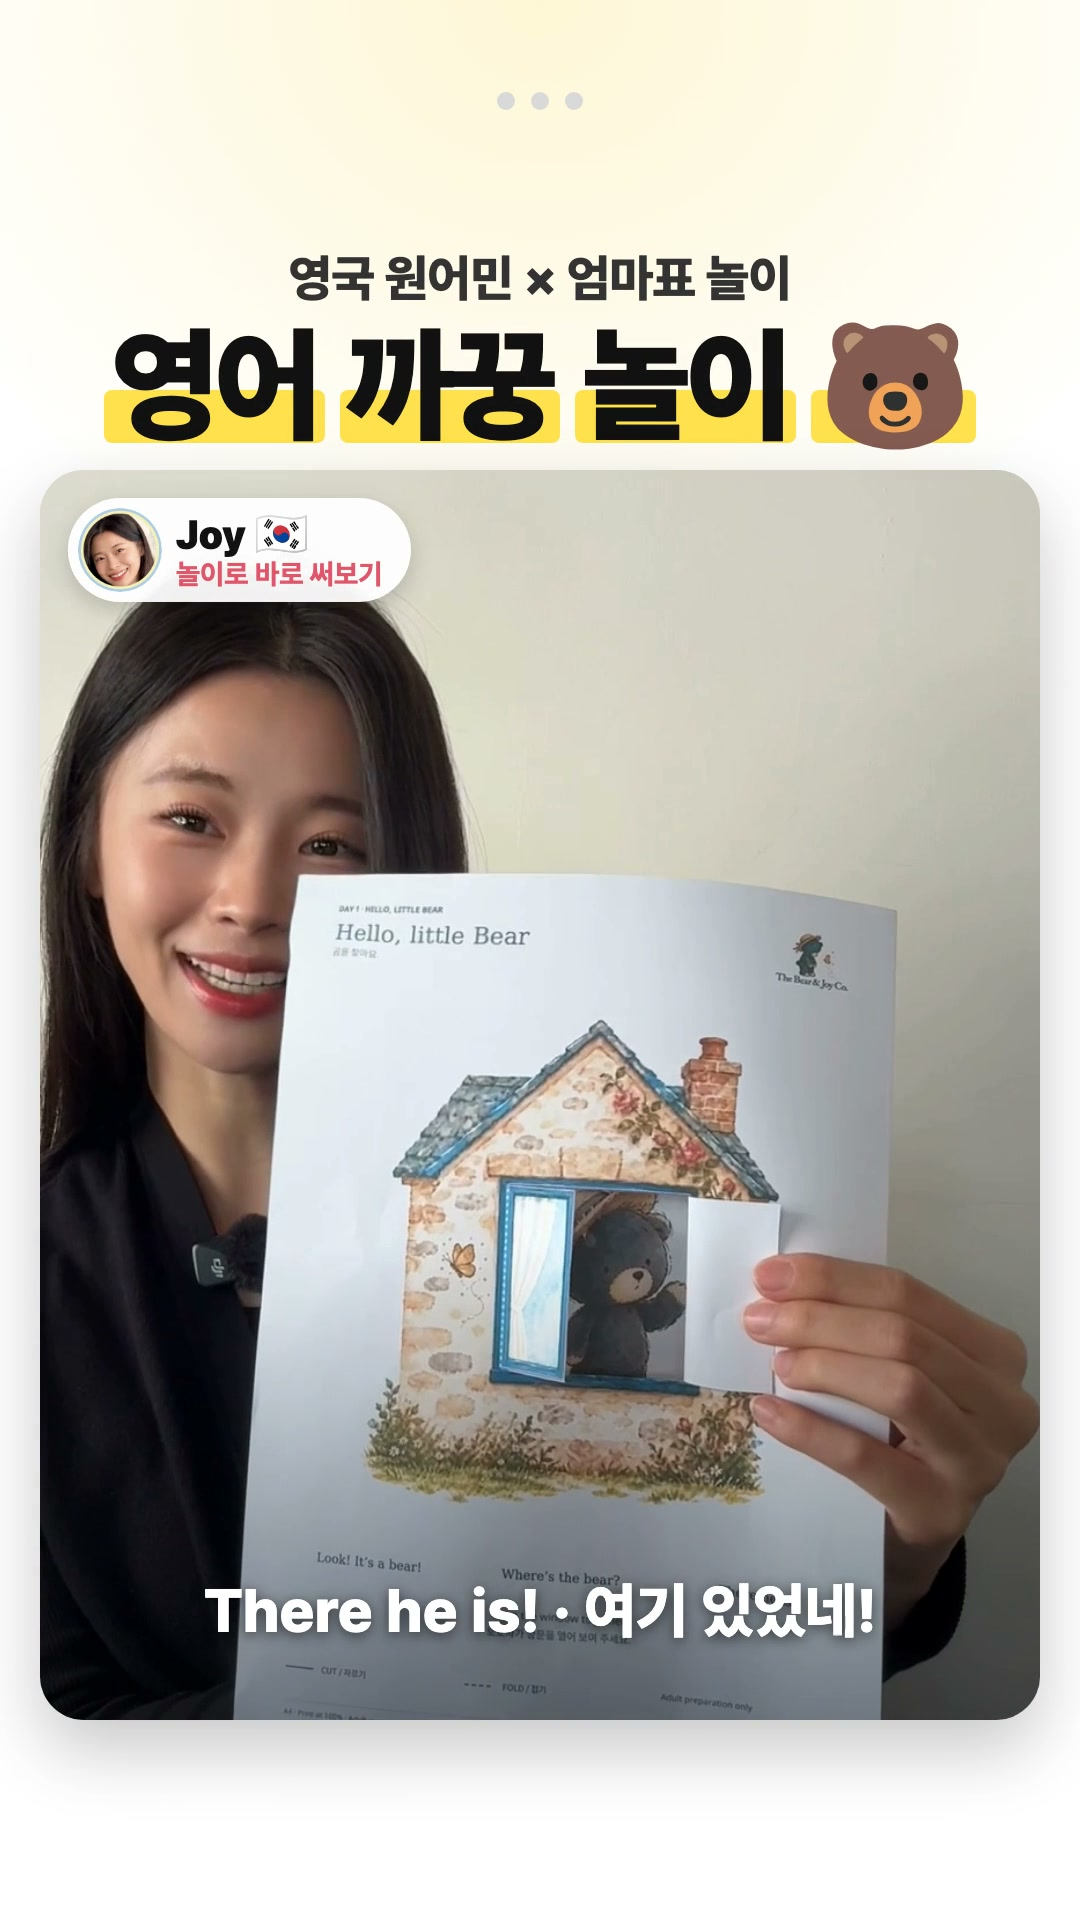
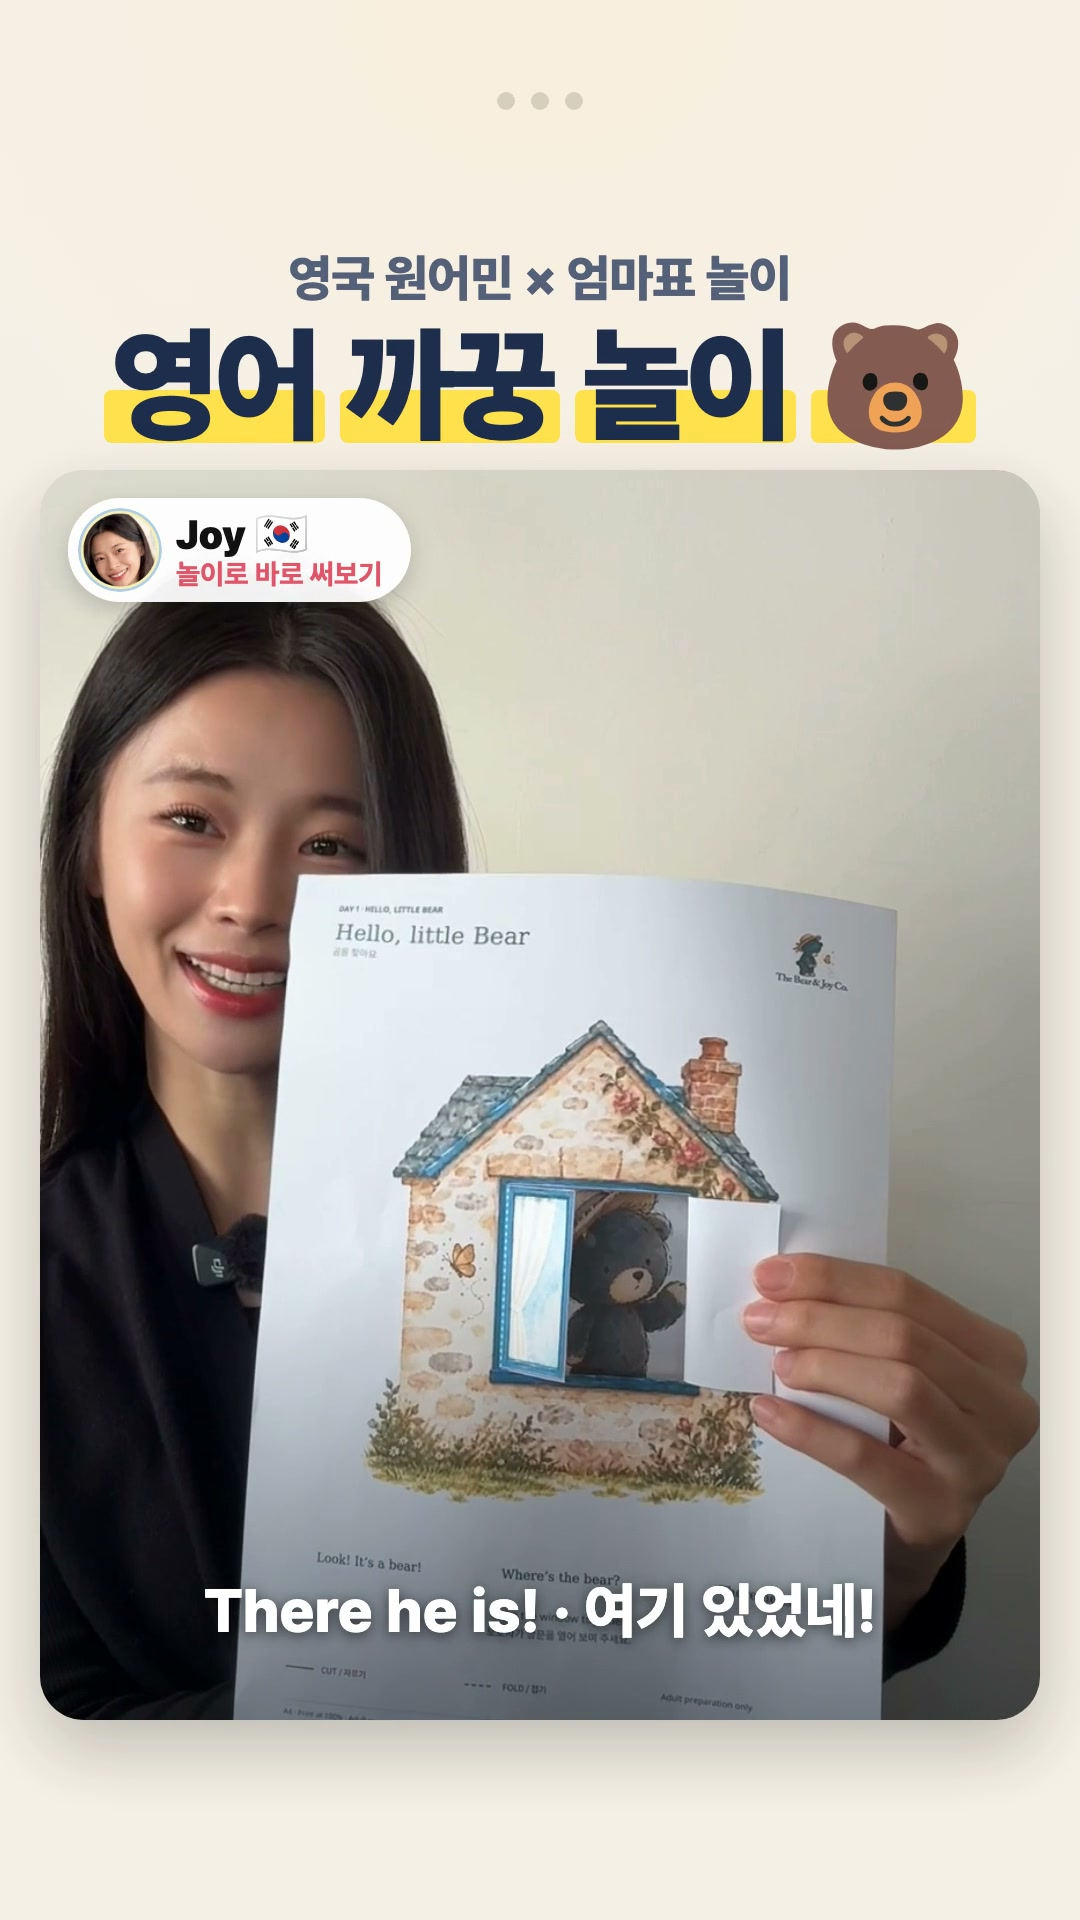
Day 1 ad: cream page instead of white (Mark), Oxford blue theme kept as an option

Changed region(s): [[0.0, 0.1875, 1.0, 1.0], [0.0917, 0.125, 0.7333, 0.25]]

diff --git a/remotion/src/LittleStepsAd.tsx b/remotion/src/LittleStepsAd.tsx
@@ -6,10 +6,15 @@ import {AbsoluteFill, Img, OffthreadVideo, continueRender, delayRender, interpol
 
 type Head = {kicker: string; big: string; ko: string; step?: number; words: number[]};
 type Shot = {who: 'mark' | 'joy'; src_s: number; src_e: number; out_s: number; out_e: number; cx0: number; cx1: number; head: Head; hook: boolean; mirror?: boolean};
-export type AdPlan = {fps: number; duration: number; frames: number; speechEnd: number; shots: Shot[]; caps: {s: number; e: number; ko: string}[]; media: string};
+export type AdPlan = {fps: number; duration: number; frames: number; speechEnd: number; shots: Shot[]; caps: {s: number; e: number; ko: string}[]; media: string; theme?: 'cream' | 'oxford'};
 
 const FF = "'Pretendard', 'Noto Color Emoji', sans-serif";
-const INK = '#111111', MARK = '#FFE14D', BLUE = '#2F6BFF', PAGE = '#FFFFFF';
+// Page themes. Mark (11 Nov 2026): not white, use our cream. Joy also asked to see Oxford blue.
+const THEMES = {
+  cream: {page: '#F5F0E6', glow: '#FAEEDF', ink: '#1E2D4D', sub: '#55607A', step: '#3A6EA5', mark: '#FFE14D', chip: '#EAE1D0', dot: '#D8CFBE', btn: '#1E2D4D', btnOn: '#2C3E66', btnText: '#FFFFFF', logo: 'full'},
+  oxford: {page: '#002147', glow: '#0B3166', ink: '#F5F0E6', sub: '#C3CEE0', step: '#AECCE6', mark: '#C9A84C', chip: 'rgba(255,255,255,.12)', dot: '#2A4470', btn: '#F5F0E6', btnOn: '#FFFFFF', btnText: '#002147', logo: 'cream'},
+};
+let T = THEMES.cream;
 const clamp = {extrapolateLeft: 'clamp' as const, extrapolateRight: 'clamp' as const};
 const CARD = {x: 40, y: 470, w: 1000, h: 1250};
 const K = CARD.h / 1080; // source px -> card px
@@ -38,22 +43,22 @@ const Header: React.FC<{sh: Shot; t: number; fps: number; first: boolean}> = ({s
   return (
     <div style={{position: 'absolute', left: 50, right: 50, top: 150, height: 300, display: 'flex', flexDirection: 'column', justifyContent: 'flex-end', alignItems: 'center',
       fontFamily: FF, textAlign: 'center', transform: `translateY(${(1 - k) * 40}px) scale(${0.9 + 0.1 * k})`, opacity: Math.min(1, k * 2)}}>
-      {h.kicker ? <div style={{fontWeight: 800, fontSize: h.step ? 40 : 50, letterSpacing: h.step ? '.12em' : '-.01em', color: h.step ? BLUE : '#333', marginBottom: 12}}>
-        {h.step ? <>PHRASE <span style={{color: INK}}>{h.step}</span> / 3</> : h.kicker}</div> : null}
-      <div style={{fontWeight: 900, fontSize: size, lineHeight: 1.05, letterSpacing: '-.035em', color: INK, whiteSpace: 'nowrap'}}>
+      {h.kicker ? <div style={{fontWeight: 800, fontSize: h.step ? 40 : 50, letterSpacing: h.step ? '.12em' : '-.01em', color: h.step ? T.step : T.sub, marginBottom: 12}}>
+        {h.step ? <>PHRASE <span style={{color: T.ink}}>{h.step}</span> / 3</> : h.kicker}</div> : null}
+      <div style={{fontWeight: 900, fontSize: size, lineHeight: 1.05, letterSpacing: '-.035em', color: T.ink, whiteSpace: 'nowrap'}}>
         {words.map((w, i) => {
           const at = h.words[i];
           const lit = at === undefined ? (h.words.length ? 0 : 1) : interpolate(t, [at - .02, at + .12], [0, 1], clamp);
           return (
             <span key={i} style={{position: 'relative', display: 'inline-block', marginRight: i < words.length - 1 ? '.24em' : 0}}>
-              <span style={{position: 'absolute', left: '-.06em', right: '-.06em', bottom: '.06em', height: '.42em', background: MARK, borderRadius: 8,
+              <span style={{position: 'absolute', left: '-.06em', right: '-.06em', bottom: '.06em', height: '.42em', background: T.mark, borderRadius: 8,
                 transform: `scaleX(${lit})`, transformOrigin: 'left', zIndex: 0}} />
               <span style={{position: 'relative', zIndex: 1}}>{w}</span>
             </span>
           );
         })}
       </div>
-      {h.ko ? <div style={{fontWeight: 700, fontSize: 50, color: '#555', marginTop: 14}}>{h.ko}</div> : null}
+      {h.ko ? <div style={{fontWeight: 700, fontSize: 50, color: T.sub, marginTop: 14}}>{h.ko}</div> : null}
     </div>
   );
 };
@@ -66,8 +71,8 @@ const Badge: React.FC<{who: 'mark' | 'joy'; t: number; s: number; fps: number}> 
       borderRadius: 999, padding: '10px 28px 10px 10px', boxShadow: '0 8px 24px rgba(0,0,0,.18)', fontFamily: FF, transform: `translateX(${(1 - k) * -60}px)`, opacity: k}}>
       <Img src={staticFile(mark ? 'brand/mark-avatar.png' : 'brand/joy-avatar.png')} style={{width: 84, height: 84, borderRadius: '50%'}} />
       <div style={{lineHeight: 1.1}}>
-        <div style={{fontWeight: 900, fontSize: 40, color: INK}}>{mark ? 'Mark T' : 'Joy'} <span style={{fontSize: 44}}>{mark ? '🇬🇧' : '🇰🇷'}</span></div>
-        <div style={{fontWeight: 700, fontSize: 28, color: mark ? BLUE : '#E2556B'}}>{mark ? '영국 원어민 발음' : '놀이로 바로 써보기'}</div>
+        <div style={{fontWeight: 900, fontSize: 40, color: '#111'}}>{mark ? 'Mark T' : 'Joy'} <span style={{fontSize: 44}}>{mark ? '🇬🇧' : '🇰🇷'}</span></div>
+        <div style={{fontWeight: 700, fontSize: 28, color: mark ? '#2F6BFF' : '#E2556B'}}>{mark ? '영국 원어민 발음' : '놀이로 바로 써보기'}</div>
       </div>
     </div>
   );
@@ -78,23 +83,25 @@ const EndCard: React.FC<{t: number; s: number; fps: number}> = ({t, s, fps}) => 
   const tap = interpolate(t, [s + 1.45, s + 1.6, s + 1.75], [1, .9, 1], clamp);
   const on = t > s + 1.6;
   return (
-    <AbsoluteFill style={{background: PAGE, opacity: interpolate(t, [s, s + .2], [0, 1], clamp), alignItems: 'center', fontFamily: FF}}>
-      <Img src={staticFile('brand/logo-full.png')} style={{width: 420, marginTop: 250, transform: `scale(${k(0)})`}} />
-      <div style={{fontFamily: "'Playfair Display', serif", fontStyle: 'italic', fontWeight: 600, fontSize: 64, color: INK, marginTop: 40, opacity: k(.15)}}>Little Steps to Big Adventures</div>
-      <div style={{fontWeight: 900, fontSize: 92, color: INK, marginTop: 50, letterSpacing: '-.03em', textAlign: 'center', lineHeight: 1.15, transform: `scale(${.85 + .15 * k(.3)})`, opacity: k(.3)}}>
-        하루 <span style={{background: `linear-gradient(transparent 58%, ${MARK} 58%)`}}>영어 3문장</span>,<br />놀면서 익혀요
+    <AbsoluteFill style={{background: T.page, opacity: interpolate(t, [s, s + .2], [0, 1], clamp), alignItems: 'center', fontFamily: FF}}>
+      {T.logo === 'full' ? <Img src={staticFile('brand/logo-full.png')} style={{width: 420, marginTop: 250, transform: `scale(${k(0)})`}} />
+        : <div style={{marginTop: 250, display: 'flex', flexDirection: 'column', alignItems: 'center', transform: `scale(${k(0)})`}}>
+          <Img src={staticFile('brand/bear-butterfly.png')} style={{width: 300}} /><Img src={staticFile('brand/wordmark-cream.png')} style={{width: 420, marginTop: 10}} /></div>}
+      <div style={{fontFamily: "'Playfair Display', serif", fontStyle: 'italic', fontWeight: 600, fontSize: 64, color: T.ink, marginTop: 40, opacity: k(.15)}}>Little Steps to Big Adventures</div>
+      <div style={{fontWeight: 900, fontSize: 92, color: T.ink, marginTop: 50, letterSpacing: '-.03em', textAlign: 'center', lineHeight: 1.15, transform: `scale(${.85 + .15 * k(.3)})`, opacity: k(.3)}}>
+        하루 <span style={{background: `linear-gradient(transparent 58%, ${T.mark} 58%)`}}>영어 3문장</span>,<br />놀면서 익혀요
       </div>
       <div style={{display: 'flex', gap: 20, marginTop: 50, opacity: k(.5)}}>
         {[['brand/mark-avatar.png', 'Mark T 🇬🇧'], ['brand/joy-avatar.png', 'Joy 🇰🇷']].map(([img, n]) => (
-          <div key={n} style={{display: 'flex', alignItems: 'center', gap: 12, background: '#F4F4F4', borderRadius: 999, padding: '8px 26px 8px 8px'}}>
+          <div key={n} style={{display: 'flex', alignItems: 'center', gap: 12, background: T.chip, color: T.ink, borderRadius: 999, padding: '8px 26px 8px 8px'}}>
             <Img src={staticFile(img)} style={{width: 70, height: 70, borderRadius: '50%'}} /><span style={{fontWeight: 800, fontSize: 36}}>{n}</span>
           </div>
         ))}
       </div>
       {/* Joy (11 Nov 2026): the ad sends people to the free Day 1 trial; sign-up is on the profile link */}
       <div style={{marginTop: 60, fontWeight: 800, fontSize: 40, color: '#E2556B', opacity: k(.6)}}>🎁 DAY 1 무료 체험</div>
-      <div style={{marginTop: 18, background: on ? '#2B2B2B' : INK, color: '#fff', fontWeight: 900, fontSize: 48, borderRadius: 999, padding: '30px 60px', whiteSpace: 'nowrap',
-        boxShadow: on ? `0 0 0 10px ${MARK}` : 'none', transform: `scale(${tap * (.8 + .2 * k(.7))})`, opacity: k(.7)}}>무료 체험 신청은 프로필 링크에서 👆</div>
+      <div style={{marginTop: 18, background: on ? T.btnOn : T.btn, color: T.btnText, fontWeight: 900, fontSize: 48, borderRadius: 999, padding: '30px 60px', whiteSpace: 'nowrap',
+        boxShadow: on ? `0 0 0 10px ${T.mark}` : 'none', transform: `scale(${tap * (.8 + .2 * k(.7))})`, opacity: k(.7)}}>무료 체험 신청은 프로필 링크에서 👆</div>
       <div style={{position: 'absolute', top: 1460 + interpolate(t, [s + 1.1, s + 1.5], [80, 0], clamp), left: 640, fontSize: 90, opacity: interpolate(t, [s + 1.1, s + 1.3, s + 2.2, s + 2.4], [0, 1, 1, 0], clamp)}}>👆</div>
     </AbsoluteFill>
   );
@@ -102,6 +109,7 @@ const EndCard: React.FC<{t: number; s: number; fps: number}> = ({t, s, fps}) => 
 
 export const LittleStepsAd: React.FC<{plan: AdPlan}> = ({plan}) => {
   useFonts();
+  T = THEMES[plan.theme ?? 'cream'];
   const frame = useCurrentFrame();
   const {fps} = useVideoConfig();
   const t = frame / fps;
@@ -116,13 +124,13 @@ export const LittleStepsAd: React.FC<{plan: AdPlan}> = ({plan}) => {
   const cap = plan.caps.find((c) => t >= c.s && t < c.e);
   const capO = cap ? interpolate(t, [cap.s, cap.s + .1, cap.e - .08, cap.e], [0, 1, 1, 0], clamp) : 0;
   return (
-    <AbsoluteFill style={{background: PAGE}}>
-      <AbsoluteFill style={{background: 'radial-gradient(120% 60% at 50% 0%, #FFF6D6 0%, #FFFFFF 55%)'}} />
+    <AbsoluteFill style={{background: T.page}}>
+      <AbsoluteFill style={{background: `radial-gradient(120% 60% at 50% 0%, ${T.glow} 0%, ${T.page} 55%)`}} />
       {/* progress: three phrase dots */}
       <div style={{position: 'absolute', top: 92, left: 0, right: 0, display: 'flex', justifyContent: 'center', gap: 16}}>
         {[1, 2, 3].map((n) => {
           const done = plan.shots.some((s) => s.head.step === n && t >= s.out_s);
-          return <div key={n} style={{width: done ? 56 : 18, height: 18, borderRadius: 9, background: done ? INK : '#D9D9D9'}} />;
+          return <div key={n} style={{width: done ? 56 : 18, height: 18, borderRadius: 9, background: done ? T.ink : T.dot}} />;
         })}
       </div>
       <Header sh={sh} t={t} fps={fps} first={first} />

diff --git a/projects/2026-11-day1-ad/build.py b/projects/2026-11-day1-ad/build.py
@@ -61,7 +61,7 @@ def main():
     sfx += [{"t": done["out_s"] + 0.05, "sound": "sparkle", "gain": -10}, {"t": speech, "sound": "chime", "gain": -9},
             {"t": speech + 1.6, "sound": "pop", "gain": -8}]
     plan = {"fps": FPS, "duration": total, "frames": math.ceil(total * FPS), "speechEnd": speech, "shots": shots, "caps": caps,
-            "sfx": sorted(sfx, key=lambda x: x["t"]), "media": "day1ad/main"}
+            "sfx": sorted(sfx, key=lambda x: x["t"]), "media": "day1ad/main", "theme": "cream"}  # Mark: our cream, not white
     os.makedirs(f"{HERE}/versions/main", exist_ok=True)
     json.dump(plan, open(f"{HERE}/versions/main/timeline.json", "w", encoding="utf8"), ensure_ascii=False, indent=1)
     print(f"{total:.1f}s ({speech:.1f}s speech), {len(shots)} shots")

diff --git a/brand/BRAND.md b/brand/BRAND.md
@@ -118,7 +118,7 @@ No logo in the top-left of this film (owner, 5 Nov 2026): the version cut from t
 - **Viral pass (Joy approved, 10 Nov 2026):** open cold on the problem itself (Mark asks a question, the child is silent: crickets + "……", then the title slams in), and cut lines that repeat what a pop or the next line already says. Day 28 went from 111 s to 84 s with every English example kept.
 
 ## Promo / ad videos (Joy, 11 Nov 2026)
-- For ads Joy lifted the Reels brand look: clean ad style is fine (white page, black Pretendard headline with a yellow marker, footage in a rounded 4:5 card, speaker badges "Mark T 🇬🇧" / "Joy 🇰🇷", white end card with the logo). Template: `remotion/src/LittleStepsAd.tsx`, project `projects/2026-11-day1-ad/`.
+- For ads Joy lifted the Reels brand look: clean ad style is fine (Bear & Joy cream page #F5F0E6 — Mark, 11 Nov 2026: "not white, our cream"; Oxford blue was tried and rejected for low contrast, black Pretendard headline with a yellow marker, footage in a rounded 4:5 card, speaker badges "Mark T 🇬🇧" / "Joy 🇰🇷", white end card with the logo). Template: `remotion/src/LittleStepsAd.tsx`, project `projects/2026-11-day1-ad/`.
 - Format that Joy asked for: Mark says one phrase, Joy shows it in the activity, alternating; short (~28 s).
 - Joy's Day 1 class footage is mirrored (worksheet text reads backwards); flip her shots back.
 - Ad call to action (Joy, 11 Nov 2026): "무료 체험 신청은 프로필 링크에서" on the end card (Day 1 is free; sign-up is on the profile link), and the same line near the top of the post caption. No voice line needed.
